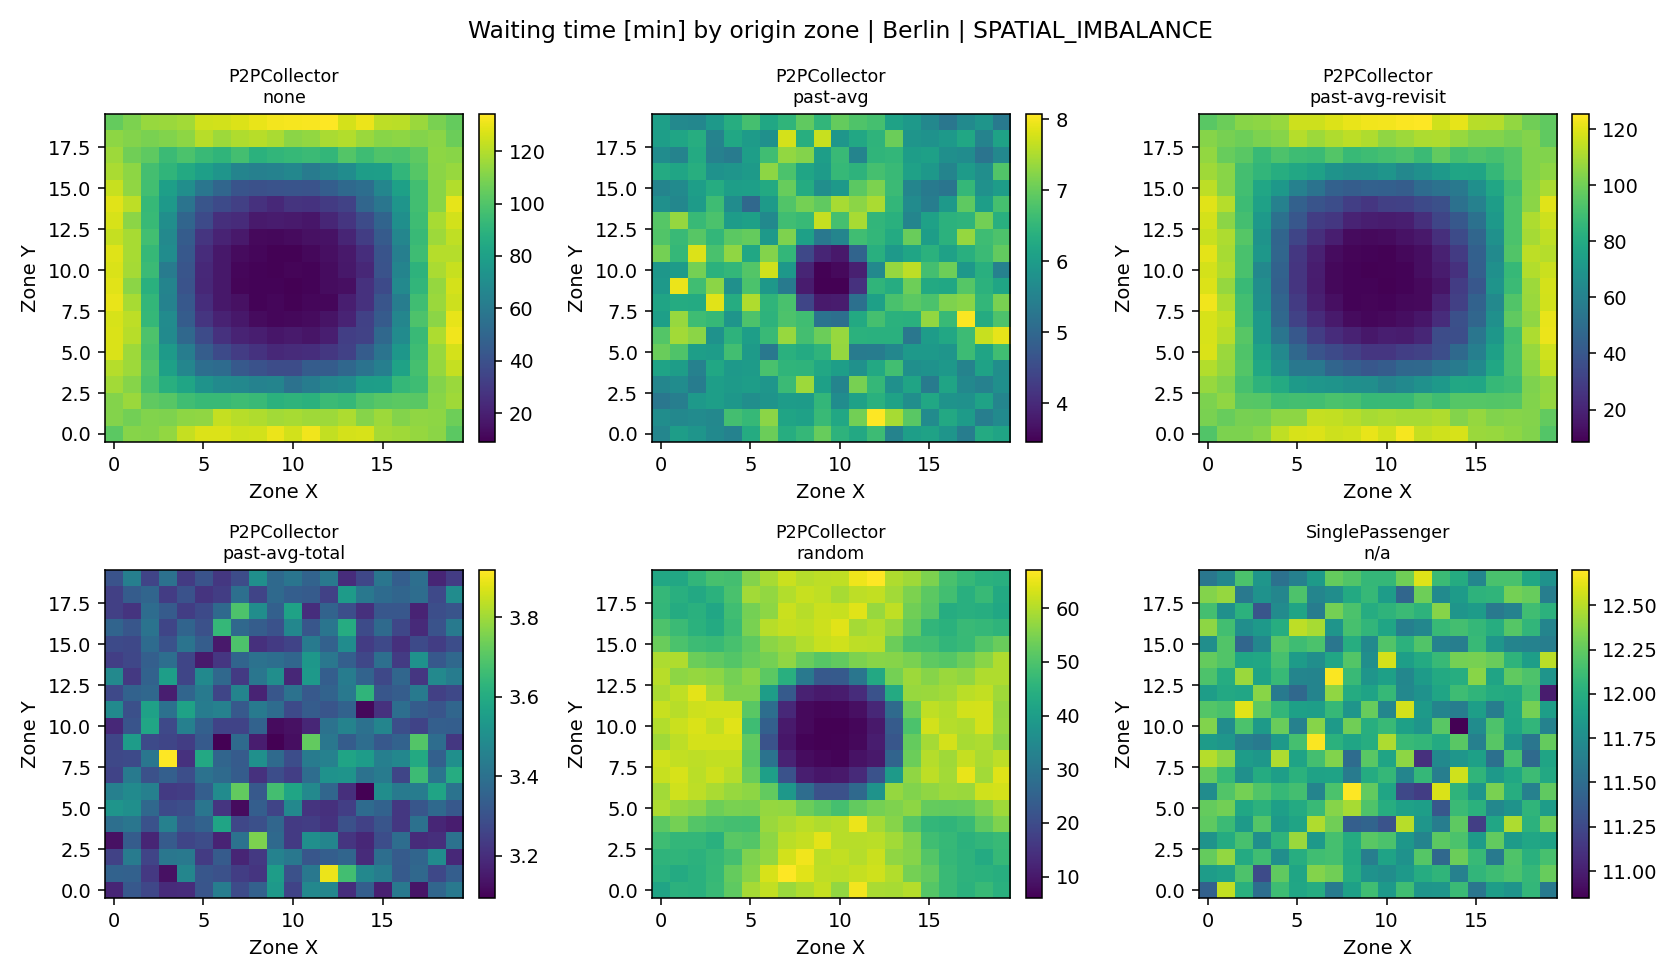
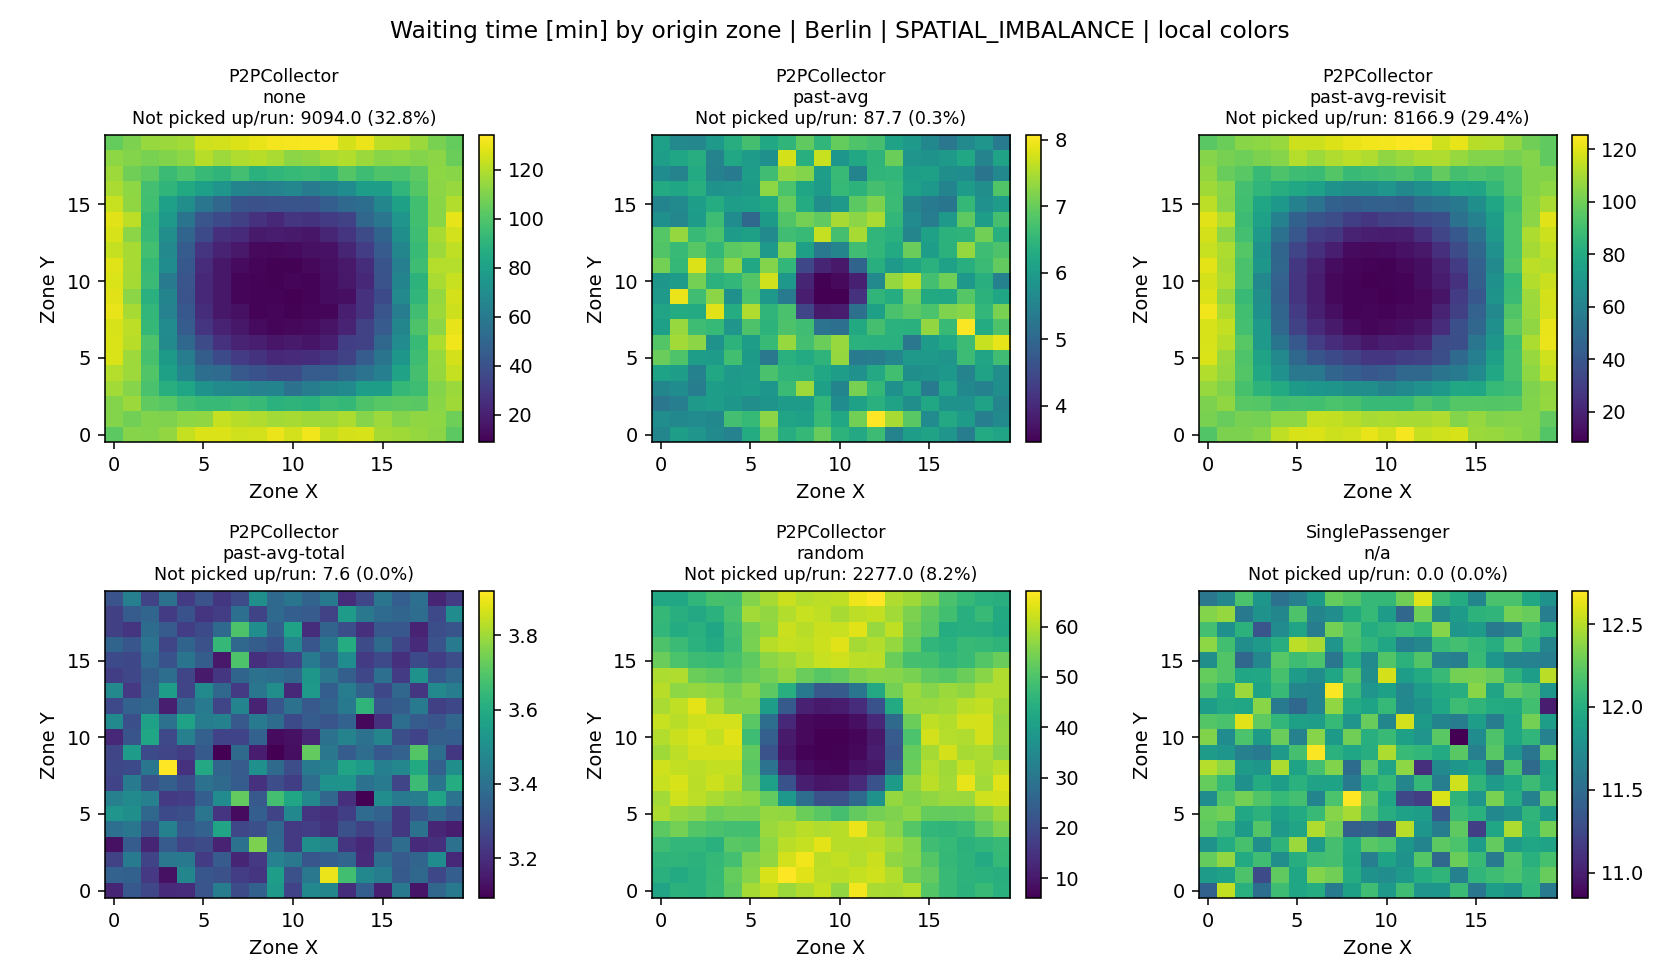
chore: add normalized heatmap plot

diff --git a/mass-run-results_11.07-konstanz-berlin/analysis/report.html b/mass-run-results_11.07-konstanz-berlin/analysis/report.html
@@ -1873,42 +1873,82 @@
 <section class="plot-group"><h3>Spatial maps</h3><div class="plots">
             <a class="plot" href="plots/spatial_waits_Konstanz_SPATIAL_IMBALANCE.png">
               <img src="plots/spatial_waits_Konstanz_SPATIAL_IMBALANCE.png" alt="spatial_waits_Konstanz_SPATIAL_IMBALANCE.png">
-              <span><strong>spatial_waits_Konstanz_SPATIAL_IMBALANCE.png</strong><small>Heatmap aggregated by algorithm and roaming mode; no raw request rows retained.</small></span>
+              <span><strong>spatial_waits_Konstanz_SPATIAL_IMBALANCE.png</strong><small>Each panel uses its own color scale. Titles show mean clients not picked up per run.</small></span>
             </a>
 
-            <a class="plot" href="plots/spatial_completion_Konstanz_SPATIAL_IMBALANCE.png">
-              <img src="plots/spatial_completion_Konstanz_SPATIAL_IMBALANCE.png" alt="spatial_completion_Konstanz_SPATIAL_IMBALANCE.png">
-              <span><strong>spatial_completion_Konstanz_SPATIAL_IMBALANCE.png</strong><small>Heatmap aggregated by algorithm and roaming mode; no raw request rows retained.</small></span>
+            <a class="plot" href="plots/spatial_waits_normalized_Konstanz_SPATIAL_IMBALANCE.png">
+              <img src="plots/spatial_waits_normalized_Konstanz_SPATIAL_IMBALANCE.png" alt="spatial_waits_normalized_Konstanz_SPATIAL_IMBALANCE.png">
+              <span><strong>spatial_waits_normalized_Konstanz_SPATIAL_IMBALANCE.png</strong><small>Equal values use equal colors across every plot; square-root normalization preserves contrast in lower ranges. Titles show mean clients not picked up per run.</small></span>
+            </a>
+
+            <a class="plot" href="plots/spatial_pickup_share_Konstanz_SPATIAL_IMBALANCE.png">
+              <img src="plots/spatial_pickup_share_Konstanz_SPATIAL_IMBALANCE.png" alt="spatial_pickup_share_Konstanz_SPATIAL_IMBALANCE.png">
+              <span><strong>spatial_pickup_share_Konstanz_SPATIAL_IMBALANCE.png</strong><small>Each panel uses its own color scale. Spatial share covers picked-up clients only; titles show the true mean unpicked total per run.</small></span>
+            </a>
+
+            <a class="plot" href="plots/spatial_pickup_share_normalized_Konstanz_SPATIAL_IMBALANCE.png">
+              <img src="plots/spatial_pickup_share_normalized_Konstanz_SPATIAL_IMBALANCE.png" alt="spatial_pickup_share_normalized_Konstanz_SPATIAL_IMBALANCE.png">
+              <span><strong>spatial_pickup_share_normalized_Konstanz_SPATIAL_IMBALANCE.png</strong><small>Equal values use equal colors across every plot; square-root normalization preserves contrast in lower ranges. Spatial share covers picked-up clients only; titles show the true mean unpicked total per run.</small></span>
             </a>
 
             <a class="plot" href="plots/spatial_waits_Konstanz_SPATIAL_ISLANDS.png">
               <img src="plots/spatial_waits_Konstanz_SPATIAL_ISLANDS.png" alt="spatial_waits_Konstanz_SPATIAL_ISLANDS.png">
-              <span><strong>spatial_waits_Konstanz_SPATIAL_ISLANDS.png</strong><small>Heatmap aggregated by algorithm and roaming mode; no raw request rows retained.</small></span>
+              <span><strong>spatial_waits_Konstanz_SPATIAL_ISLANDS.png</strong><small>Each panel uses its own color scale. Titles show mean clients not picked up per run.</small></span>
             </a>
 
-            <a class="plot" href="plots/spatial_completion_Konstanz_SPATIAL_ISLANDS.png">
-              <img src="plots/spatial_completion_Konstanz_SPATIAL_ISLANDS.png" alt="spatial_completion_Konstanz_SPATIAL_ISLANDS.png">
-              <span><strong>spatial_completion_Konstanz_SPATIAL_ISLANDS.png</strong><small>Heatmap aggregated by algorithm and roaming mode; no raw request rows retained.</small></span>
+            <a class="plot" href="plots/spatial_waits_normalized_Konstanz_SPATIAL_ISLANDS.png">
+              <img src="plots/spatial_waits_normalized_Konstanz_SPATIAL_ISLANDS.png" alt="spatial_waits_normalized_Konstanz_SPATIAL_ISLANDS.png">
+              <span><strong>spatial_waits_normalized_Konstanz_SPATIAL_ISLANDS.png</strong><small>Equal values use equal colors across every plot; square-root normalization preserves contrast in lower ranges. Titles show mean clients not picked up per run.</small></span>
+            </a>
+
+            <a class="plot" href="plots/spatial_pickup_share_Konstanz_SPATIAL_ISLANDS.png">
+              <img src="plots/spatial_pickup_share_Konstanz_SPATIAL_ISLANDS.png" alt="spatial_pickup_share_Konstanz_SPATIAL_ISLANDS.png">
+              <span><strong>spatial_pickup_share_Konstanz_SPATIAL_ISLANDS.png</strong><small>Each panel uses its own color scale. Spatial share covers picked-up clients only; titles show the true mean unpicked total per run.</small></span>
+            </a>
+
+            <a class="plot" href="plots/spatial_pickup_share_normalized_Konstanz_SPATIAL_ISLANDS.png">
+              <img src="plots/spatial_pickup_share_normalized_Konstanz_SPATIAL_ISLANDS.png" alt="spatial_pickup_share_normalized_Konstanz_SPATIAL_ISLANDS.png">
+              <span><strong>spatial_pickup_share_normalized_Konstanz_SPATIAL_ISLANDS.png</strong><small>Equal values use equal colors across every plot; square-root normalization preserves contrast in lower ranges. Spatial share covers picked-up clients only; titles show the true mean unpicked total per run.</small></span>
             </a>
 
             <a class="plot" href="plots/spatial_waits_Berlin_SPATIAL_IMBALANCE.png">
               <img src="plots/spatial_waits_Berlin_SPATIAL_IMBALANCE.png" alt="spatial_waits_Berlin_SPATIAL_IMBALANCE.png">
-              <span><strong>spatial_waits_Berlin_SPATIAL_IMBALANCE.png</strong><small>Heatmap aggregated by algorithm and roaming mode; no raw request rows retained.</small></span>
+              <span><strong>spatial_waits_Berlin_SPATIAL_IMBALANCE.png</strong><small>Each panel uses its own color scale. Titles show mean clients not picked up per run.</small></span>
             </a>
 
-            <a class="plot" href="plots/spatial_completion_Berlin_SPATIAL_IMBALANCE.png">
-              <img src="plots/spatial_completion_Berlin_SPATIAL_IMBALANCE.png" alt="spatial_completion_Berlin_SPATIAL_IMBALANCE.png">
-              <span><strong>spatial_completion_Berlin_SPATIAL_IMBALANCE.png</strong><small>Heatmap aggregated by algorithm and roaming mode; no raw request rows retained.</small></span>
+            <a class="plot" href="plots/spatial_waits_normalized_Berlin_SPATIAL_IMBALANCE.png">
+              <img src="plots/spatial_waits_normalized_Berlin_SPATIAL_IMBALANCE.png" alt="spatial_waits_normalized_Berlin_SPATIAL_IMBALANCE.png">
+              <span><strong>spatial_waits_normalized_Berlin_SPATIAL_IMBALANCE.png</strong><small>Equal values use equal colors across every plot; square-root normalization preserves contrast in lower ranges. Titles show mean clients not picked up per run.</small></span>
+            </a>
+
+            <a class="plot" href="plots/spatial_pickup_share_Berlin_SPATIAL_IMBALANCE.png">
+              <img src="plots/spatial_pickup_share_Berlin_SPATIAL_IMBALANCE.png" alt="spatial_pickup_share_Berlin_SPATIAL_IMBALANCE.png">
+              <span><strong>spatial_pickup_share_Berlin_SPATIAL_IMBALANCE.png</strong><small>Each panel uses its own color scale. Spatial share covers picked-up clients only; titles show the true mean unpicked total per run.</small></span>
+            </a>
+
+            <a class="plot" href="plots/spatial_pickup_share_normalized_Berlin_SPATIAL_IMBALANCE.png">
+              <img src="plots/spatial_pickup_share_normalized_Berlin_SPATIAL_IMBALANCE.png" alt="spatial_pickup_share_normalized_Berlin_SPATIAL_IMBALANCE.png">
+              <span><strong>spatial_pickup_share_normalized_Berlin_SPATIAL_IMBALANCE.png</strong><small>Equal values use equal colors across every plot; square-root normalization preserves contrast in lower ranges. Spatial share covers picked-up clients only; titles show the true mean unpicked total per run.</small></span>
             </a>
 
             <a class="plot" href="plots/spatial_waits_Berlin_SPATIAL_ISLANDS.png">
               <img src="plots/spatial_waits_Berlin_SPATIAL_ISLANDS.png" alt="spatial_waits_Berlin_SPATIAL_ISLANDS.png">
-              <span><strong>spatial_waits_Berlin_SPATIAL_ISLANDS.png</strong><small>Heatmap aggregated by algorithm and roaming mode; no raw request rows retained.</small></span>
+              <span><strong>spatial_waits_Berlin_SPATIAL_ISLANDS.png</strong><small>Each panel uses its own color scale. Titles show mean clients not picked up per run.</small></span>
             </a>
 
-            <a class="plot" href="plots/spatial_completion_Berlin_SPATIAL_ISLANDS.png">
-              <img src="plots/spatial_completion_Berlin_SPATIAL_ISLANDS.png" alt="spatial_completion_Berlin_SPATIAL_ISLANDS.png">
-              <span><strong>spatial_completion_Berlin_SPATIAL_ISLANDS.png</strong><small>Heatmap aggregated by algorithm and roaming mode; no raw request rows retained.</small></span>
+            <a class="plot" href="plots/spatial_waits_normalized_Berlin_SPATIAL_ISLANDS.png">
+              <img src="plots/spatial_waits_normalized_Berlin_SPATIAL_ISLANDS.png" alt="spatial_waits_normalized_Berlin_SPATIAL_ISLANDS.png">
+              <span><strong>spatial_waits_normalized_Berlin_SPATIAL_ISLANDS.png</strong><small>Equal values use equal colors across every plot; square-root normalization preserves contrast in lower ranges. Titles show mean clients not picked up per run.</small></span>
+            </a>
+
+            <a class="plot" href="plots/spatial_pickup_share_Berlin_SPATIAL_ISLANDS.png">
+              <img src="plots/spatial_pickup_share_Berlin_SPATIAL_ISLANDS.png" alt="spatial_pickup_share_Berlin_SPATIAL_ISLANDS.png">
+              <span><strong>spatial_pickup_share_Berlin_SPATIAL_ISLANDS.png</strong><small>Each panel uses its own color scale. Spatial share covers picked-up clients only; titles show the true mean unpicked total per run.</small></span>
+            </a>
+
+            <a class="plot" href="plots/spatial_pickup_share_normalized_Berlin_SPATIAL_ISLANDS.png">
+              <img src="plots/spatial_pickup_share_normalized_Berlin_SPATIAL_ISLANDS.png" alt="spatial_pickup_share_normalized_Berlin_SPATIAL_ISLANDS.png">
+              <span><strong>spatial_pickup_share_normalized_Berlin_SPATIAL_ISLANDS.png</strong><small>Equal values use equal colors across every plot; square-root normalization preserves contrast in lower ranges. Spatial share covers picked-up clients only; titles show the true mean unpicked total per run.</small></span>
             </a></div></section>
     </section>
   </main>

diff --git a/mass-run-analysis/analyze_mass_run.py b/mass-run-analysis/analyze_mass_run.py
@@ -1367,72 +1367,154 @@ def plot_time_windows(time_df: pd.DataFrame, out: Path, tick_block_size: int) ->
     return files
 
 
-def plot_spatial_maps(request_df: pd.DataFrame, out: Path) -> list[dict[str, str]]:
+def plot_spatial_maps(
+    request_df: pd.DataFrame, summary: pd.DataFrame, out: Path
+) -> list[dict[str, str]]:
     if plt is None or request_df.empty:
         return []
     files = []
     spatial = request_df[request_df["spawnScenario"].str.contains("SPATIAL", case=False, na=False)].copy()
     if spatial.empty:
         spatial = request_df.copy()
-    for (taxi_count, client_count, scenario), sub in spatial.groupby(
+    spatial_cols = [
+        "taxiCount",
+        "clientCount",
+        "spawnScenario",
+        "algorithm",
+        "idleRoamingMode",
+        "zoneX",
+        "zoneY",
+    ]
+    grouped = (
+        spatial.groupby(spatial_cols, dropna=False)
+        .agg(requests=("requestCount", "sum"), waiting=("waitingTimeSum", "sum"))
+        .reset_index()
+    )
+    grouped["waitMean"] = grouped["waiting"] / grouped["requests"].where(grouped["requests"] != 0)
+    panel_cols = ["taxiCount", "clientCount", "spawnScenario", "algorithm", "idleRoamingMode"]
+    grouped["pickupShare"] = (
+        grouped["requests"] / grouped.groupby(panel_cols, dropna=False)["requests"].transform("sum") * 100.0
+    )
+    metric_norm = {
+        col: matplotlib.colors.PowerNorm(gamma=0.5, vmin=0, vmax=max(float(grouped[col].max()), 1.0))
+        for col in ["waitMean", "pickupShare"]
+        if grouped[col].notna().any()
+    }
+
+    pickup_rows = summary[summary["metric"].eq(WAITING_METRIC)].copy()
+    pickup_rows["unpickedCount"] = (pickup_rows["clientCount"] - pickup_rows["countMean"]).clip(lower=0)
+    pickup_rows["unpickedRatio"] = pickup_rows["unpickedCount"] / pickup_rows["clientCount"] * 100.0
+    unpicked = {
+        tuple(getattr(row, col) for col in panel_cols): (row.unpickedCount, row.unpickedRatio)
+        for row in pickup_rows.groupby(panel_cols, dropna=False)[["unpickedCount", "unpickedRatio"]]
+        .mean()
+        .reset_index()
+        .itertuples(index=False)
+    }
+
+    for (taxi_count, client_count, scenario), sub in grouped.groupby(
         ["taxiCount", "clientCount", "spawnScenario"], dropna=False
     ):
-        grouped = (
-            sub.groupby(["algorithm", "idleRoamingMode", "zoneX", "zoneY"], dropna=False)
-            .agg(
-                requests=("requestCount", "sum"),
-                finished=("finishedCount", "sum"),
-                waiting=("waitingTimeSum", "sum"),
-            )
-            .reset_index()
-        )
-        grouped["waitMean"] = grouped["waiting"] / grouped["requests"].where(grouped["requests"] != 0)
-        grouped["completionRatio"] = grouped["finished"] / grouped["requests"].where(grouped["requests"] != 0)
-        modes = list(dict.fromkeys(zip(grouped["algorithm"], grouped["idleRoamingMode"])))
+        modes = list(dict.fromkeys(zip(sub["algorithm"], sub["idleRoamingMode"])))
         modes = modes[:6]
         if not modes:
             continue
-        for value_col, label, filename in [
-            ("waitMean", "Waiting time [min]", "spatial_waits"),
-            ("completionRatio", "Completion ratio", "spatial_completion"),
+        for value_col, label, filename, normalized, note in [
+            (
+                "waitMean",
+                "Waiting time [min]",
+                "spatial_waits",
+                False,
+                "Each panel uses its own color scale. Titles show mean clients not picked up per run.",
+            ),
+            (
+                "waitMean",
+                "Waiting time [min]",
+                "spatial_waits_normalized",
+                True,
+                "Equal values use equal colors across every plot; square-root normalization preserves contrast in lower ranges. Titles show mean clients not picked up per run.",
+            ),
+            (
+                "pickupShare",
+                "Share of picked-up clients [%]",
+                "spatial_pickup_share",
+                False,
+                "Each panel uses its own color scale. Spatial share covers picked-up clients only; titles show the true mean unpicked total per run.",
+            ),
+            (
+                "pickupShare",
+                "Share of picked-up clients [%]",
+                "spatial_pickup_share_normalized",
+                True,
+                "Equal values use equal colors across every plot; square-root normalization preserves contrast in lower ranges. Spatial share covers picked-up clients only; titles show the true mean unpicked total per run.",
+            ),
         ]:
             fig, axes = plt.subplots(2, 3, figsize=(12, 7), squeeze=False)
             axes_flat = axes.ravel()
-            plotted = 0
+            used_axes = []
+            image = None
             for ax, (algorithm, mode) in zip(axes_flat, modes):
-                plot_df = grouped[
-                    grouped["algorithm"].eq(algorithm) & grouped["idleRoamingMode"].eq(mode)
+                plot_df = sub[
+                    sub["algorithm"].eq(algorithm) & sub["idleRoamingMode"].eq(mode)
                 ].dropna(subset=["zoneX", "zoneY", value_col])
                 if plot_df.empty:
                     ax.set_visible(False)
                     continue
                 grid = plot_df.pivot(index="zoneY", columns="zoneX", values=value_col).sort_index()
-                image = ax.imshow(grid, origin="lower", aspect="auto", cmap="viridis")
-                ax.set_title(f"{str(algorithm).replace('TaxiAlgorithm', '')}\n{mode}", fontsize=9)
+                image = ax.imshow(
+                    grid,
+                    origin="lower",
+                    aspect="auto",
+                    cmap="viridis",
+                    norm=metric_norm[value_col] if normalized else None,
+                )
+                missing = unpicked.get((taxi_count, client_count, scenario, algorithm, mode))
+                pickup_note = (
+                    f"\nNot picked up/run: {missing[0]:.1f} ({missing[1]:.1f}%)" if missing else ""
+                )
+                ax.set_title(
+                    f"{str(algorithm).replace('TaxiAlgorithm', '')}\n{mode}{pickup_note}",
+                    fontsize=9,
+                )
                 ax.set_xlabel("Zone X")
                 ax.set_ylabel("Zone Y")
-                fig.colorbar(image, ax=ax, fraction=0.046, pad=0.04)
-                plotted += 1
-            for ax in axes_flat[plotted:]:
-                ax.set_visible(False)
-            if not plotted:
+                colorbar = fig.colorbar(image, ax=ax, fraction=0.046, pad=0.04)
+                local_min = float(plot_df[value_col].min())
+                local_max = float(plot_df[value_col].max())
+                if normalized and local_min < local_max:
+                    colorbar.ax.set_ylim(local_min, local_max)
+                used_axes.append(ax)
+            for ax in axes_flat:
+                if ax not in used_axes:
+                    ax.set_visible(False)
+            if image is None:
                 plt.close(fig)
                 continue
-            fig.suptitle(f"{label} by origin zone | {city_label(taxi_count, client_count)} | {scenario}")
+            scale_label = "shared colors" if normalized else "local colors"
+            fig.suptitle(
+                f"{label} by origin zone | {city_label(taxi_count, client_count)} | "
+                f"{scenario} | {scale_label}"
+            )
             fig.tight_layout()
             name = f"{filename}_{safe_name(city_label(taxi_count, client_count))}_{safe_name(scenario)}.png"
             fig.savefig(out / name, dpi=140)
             plt.close(fig)
-            files.append(plot_entry(name, "Spatial maps", "Heatmap aggregated by algorithm and roaming mode; no raw request rows retained."))
+            files.append(plot_entry(name, "Spatial maps", note))
             if len(files) >= MAX_REQUEST_PLOTS:
                 return files
     return files
 
 
-def plot_new_metrics(time_df: pd.DataFrame, request_df: pd.DataFrame, out: Path, tick_block_size: int) -> list[dict[str, str]]:
+def plot_new_metrics(
+    time_df: pd.DataFrame,
+    request_df: pd.DataFrame,
+    summary: pd.DataFrame,
+    out: Path,
+    tick_block_size: int,
+) -> list[dict[str, str]]:
     return (
         plot_time_windows(time_df, out, tick_block_size)
-        + plot_spatial_maps(request_df, out)
+        + plot_spatial_maps(request_df, summary, out)
     )
 
 
@@ -1698,7 +1780,7 @@ def plot_thesis_focus(
         + plot_roaming_trends(summary, out)
         + plot_topology_trends(summary, out)
         + plot_interesting_trends(summary, comp, out)
-        + plot_new_metrics(time_df, request_df, out, tick_block_size)
+        + plot_new_metrics(time_df, request_df, summary, out, tick_block_size)
     )
 
 
